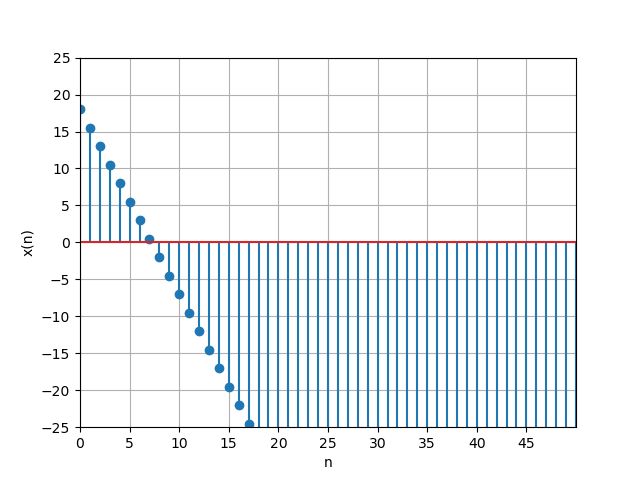
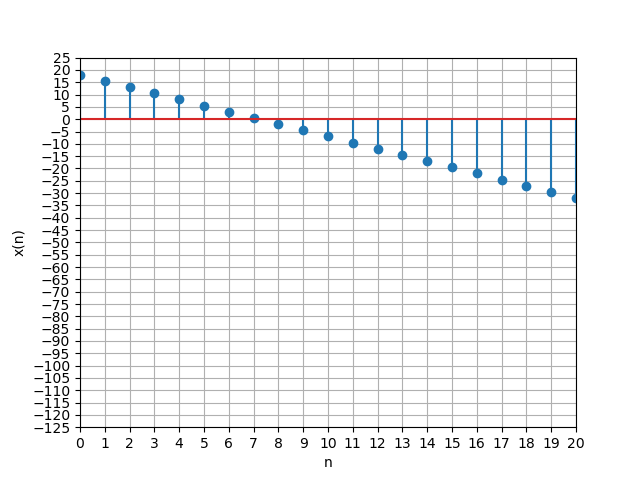
first commit

diff --git a/Assignment1/codes/graph1.py b/Assignment1/codes/graph1.py
@@ -3,31 +3,31 @@ import numpy as np
 with open("values.dat") as file:
     data_str = file.read()
 sequences = data_str.split('\n')
-sequences = [line for line in sequences if line]
-data_array = np.array([list(map(float, line.split('\t'))) for line in sequences])
+sequences = np.array(sequences)[np.where(np.array(sequences) != "")].tolist()
+data_array = np.array(list(map(np.vectorize(float), map(lambda line: line.split('\t'), sequences))))
 x = data_array[:, 0].astype(int)
 y1 = data_array[:, 1]
 y2 = data_array[:, 2]
-plt.xlim(0,50)
-plt.ylim(0, 50)
+plt.xlim(0,20)
+plt.ylim(0, 150)
 plt.stem(x, y1,markerfmt='o')
 #plt.title("Plotting x(n)")
 plt.xlabel("n")
 plt.ylabel("x(n)")
-plt.xticks(np.arange(0,50, 5))
-plt.yticks(np.arange(0,50, 5))
+plt.xticks(np.arange(0,21, 1))
+plt.yticks(np.arange(0,150, 5))
 plt.grid(True)
 plt.savefig("Figure_1.png")
 plt.show()
 plt.clf()
-plt.xlim(0,50)
-plt.ylim(-25,25)
+plt.xlim(0,20)
+plt.ylim(-125,25)
 plt.stem(x, y2,markerfmt='o')
 #plt.title("Plotting x(n)")
 plt.xlabel("n")
 plt.ylabel("x(n)")
-plt.xticks(np.arange(0,50, 5))
-plt.yticks(np.arange(-25,26, 5))
+plt.xticks(np.arange(0,21, 1))
+plt.yticks(np.arange(-125,26, 5))
 plt.grid(True)
 plt.savefig("Figure_2.png")
 plt.show()

diff --git a/Assignment1/codes/graph1.c b/Assignment1/codes/graph1.c
@@ -15,7 +15,7 @@ int main() {
     float x1;  //term of the first series
     float x2;  //term of the second series
 
-    for(n=0;n<51;n++)
+    for(n=0;n<21;n++)
     {
         x1 = first_term_1 + (float)(n)*(common_difference_1);
         x2 = first_term_2 + (float)(n)*(common_difference_2);
